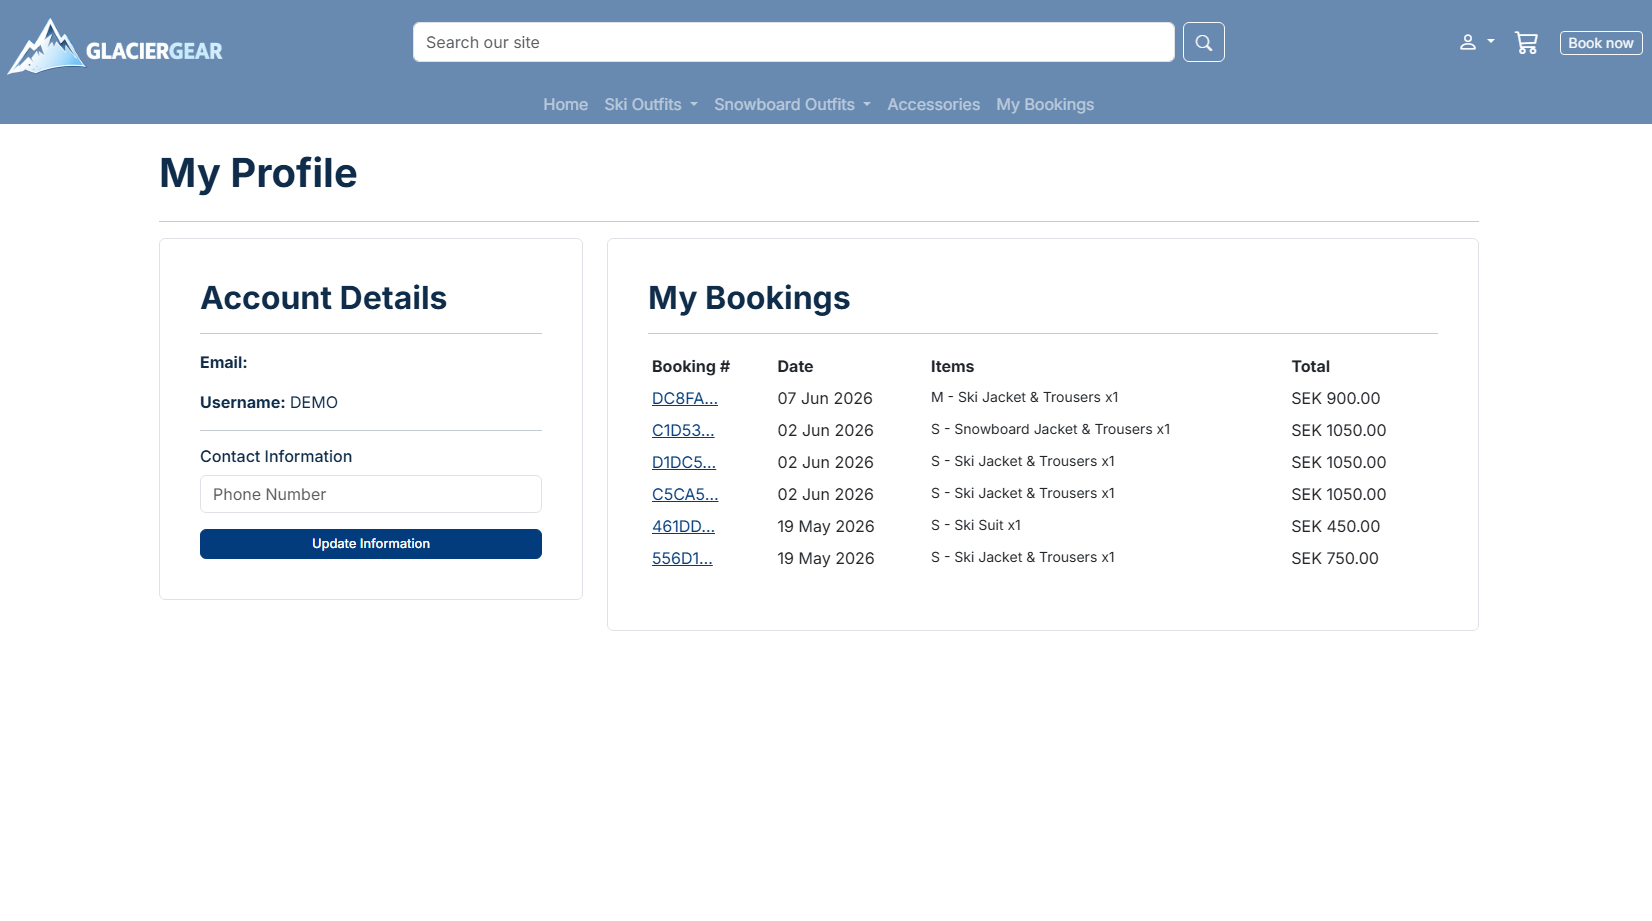
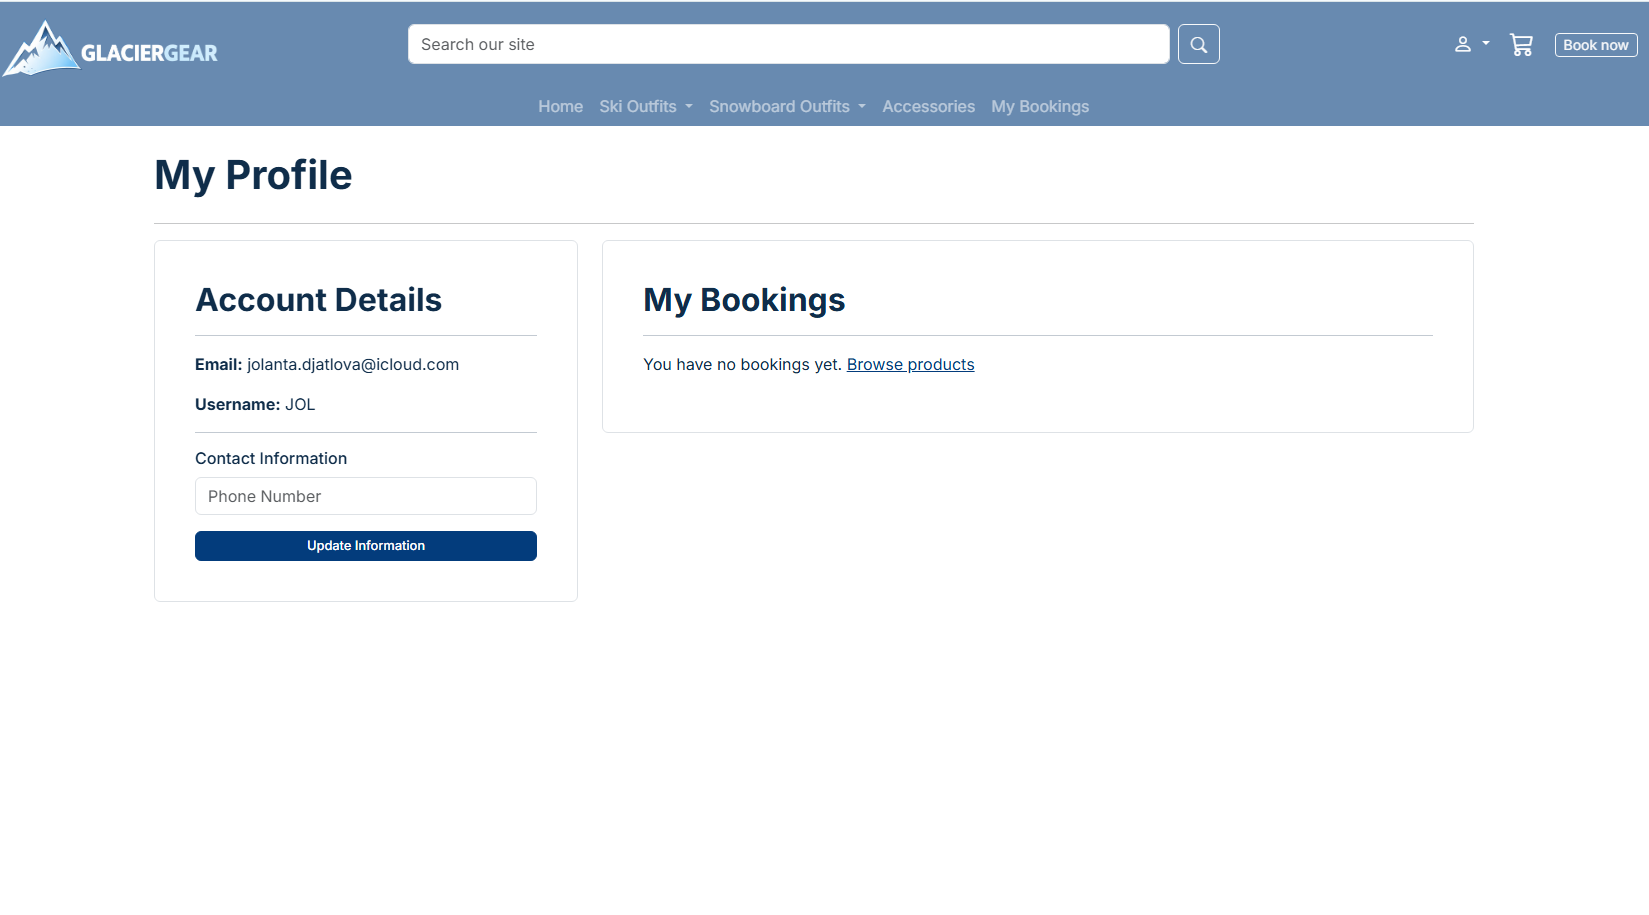
Update README wording, typography, images, credits and agile sections

diff --git a/README.md b/README.md
@@ -116,7 +116,7 @@ The application focuses on clean UX design, accessibility, and secure authentica
 The website follows a clear and intuitive user flow focused on product discovery and rental booking. Public users can browse, search, and filter products, while authenticated users can access the booking cart, checkout, and profile features. Clear UI feedback is provided throughout user interactions via toast notifications.
  
 ##### Information Architecture
-Content is organised into clear sections including the homepage with live weather widget, product listings with filtering and sorting, product detail pages with size and date selection, a booking cart, checkout, and user profile with booking history. Categories are used to group products and support easy navigation.
+Content is organised into clear sections including the homepage with live weather mountain conditions bar, product listings with filtering and sorting, product detail pages with size and date selection, a booking cart, checkout, and user profile with booking history. Categories are used to group products and support easy navigation.
  
 ##### Navigation Layout
 A persistent navigation bar provides access to key areas of the site, including Home, Ski Outfits, Snowboard Outfits, Accessories, My Bookings, and user account options. The navigation collapses into a mobile-friendly menu on smaller screens.
@@ -198,7 +198,7 @@ Some design decisions evolved during development, resulting in minor differences
 ### Typography
  
 - The **Bebas Neue** typeface is used for headings and hero text to create a bold, sporty aesthetic that reflects the ski and snowboard theme of the project.
-- **Open Sans** (via system fonts / Bootstrap defaults) is used for body text and navigation due to its clean, readable letterforms across different screen sizes.
+- **Inter** is used for body text and navigation due to its clean, readable letterforms across different screen sizes.
 - Varying font weights are used to establish clear visual hierarchy between headings, navigation elements, and content text.
 - This typography pairing supports a modern and active interface while keeping the layout clear and easy to navigate.
 
@@ -219,8 +219,8 @@ A contrast grid was used to ensure that text and interactive elements meet acces
  
 ### Images
  
-The hero background image and card images used on the GlacierGear homepage were sourced from free stock photography sites and optimised for web use. Product images were sourced from free stock photography and uploaded through the Django admin panel.
- 
+The hero background image, product images, and GlacierGear logo were all AI-generated using [ChatGPT](https://chat.openai.com/) and optimised for web use. Product images were uploaded through the Django admin panel.
+
 All images include descriptive `alt` attributes to support accessibility.
 
 ### Responsiveness
@@ -232,8 +232,9 @@ The layout, typography, and interactive elements adjust to maintain usability ac
 - Navigation collapses into a mobile-friendly menu on smaller screens.
 - Product cards reflow from a 4-column to 2-column to 1-column grid on smaller screens.
 - Forms, buttons, and inputs remain accessible and easy to use on touch devices.
-Responsiveness was tested using browser developer tools and manual viewport resizing.
-Further details can be found in the **Responsiveness Test** section.
+
+Responsiveness was tested using **Chrome DevTools** device toolbar and manual viewport resizing.
+Further details can be found in the [Responsiveness Test](#responsiveness-test) section.
  
  
 [Back to contents](#contents)
@@ -241,8 +242,8 @@ Further details can be found in the **Responsiveness Test** section.
 ## Agile Development Process
  
 GlacierGear was developed using an iterative Agile approach, focusing on delivering a clear and user-friendly Minimum Viable Product (MVP). Development was carried out in small, manageable stages, allowing functionality to be built, tested, and refined incrementally.
- 
-The workflow was managed using GitHub Projects (Kanban board) and GitHub Issues, where user stories and tasks were prioritised using the MoSCoW method. This ensured that core functionality such as product browsing, the booking cart, Stripe checkout, and user profiles was implemented first, followed by usability and design improvements.
+
+The workflow was managed using [GitHub Projects](https://github.com/jolantadjatlova/GlacierGear/projects) (Kanban board) and GitHub Issues, where user stories and tasks were prioritised using the MoSCoW method. This ensured that core functionality such as product browsing, the booking cart, Stripe checkout, and user profiles was implemented first, followed by usability and design improvements.
  
 [Back to contents](#contents)
  
@@ -252,21 +253,27 @@ The workflow was managed using GitHub Projects (Kanban board) and GitHub Issues,
  
 #### GitHub Projects (Kanban)
 A Kanban board was created using [GitHub Projects](https://github.com/jolantadjatlova/GlacierGear/projects) to visually manage tasks and track progress. Tasks were broken down into user stories and categorised by status:
- 
+
 - To Do
 - In Progress
 - Done
+
+This approach helped to:
+- Track development progress clearly
+- Maintain focus on achievable goals
+- Manage workload effectively throughout the project
+
 ![GitHub Projects Board](docs/glaciergear_project_board.png)
- 
+
 #### GitHub Issues
- 
-GitHub Issues were used to record user stories, development tasks and potential features, with labels applied.
- 
+
+GitHub Issues were used to record user stories, development tasks and potential features, with labels applied. Each issue included clear acceptance criteria and was linked to the relevant stage of development.
+
 ![GitHub Issues](docs/glaciergear_github_issues.png)
- 
+
 #### MoSCoW Prioritization
- 
-The MoSCoW prioritisation method was used to classify tasks as Must Have, Should Have or Could Have. This helped ensure that essential functionality was delivered within the project timeframe.
+
+The MoSCoW prioritisation method was used to classify tasks as Must Have, Should Have or Could Have. This helped ensure that essential functionality was delivered within the project timeframe while allowing flexibility for future enhancements. Could-have issues such as Wishlist and Product Reviews remain open to demonstrate ongoing prioritisation.
  
  
 [Back to contents](#contents)
@@ -339,6 +346,7 @@ Users can browse all available rental products with filtering and sorting option
 Features include:
 - Filter by gender, garment type, size, and colour
 - Sort by price, name, and rating
+- Search by keyword using the navbar search bar
 - Product count displayed
 - Edit/Delete links visible to superusers on each card
 
@@ -399,11 +407,11 @@ Features include:
 Users complete their booking through a secure checkout with Stripe payment processing.
 
 Features include:
+- Order summary showing items, sizes, dates and total
 - Booking details form (name, email, phone, rental dates)
 - Pre-filled with saved profile information
 - Save info checkbox to update profile on checkout
 - Stripe card payment element
-- Loading overlay during payment processing
 
 [Checkout page](docs/checkout_desktop.png "Checkout page")
 
@@ -729,11 +737,10 @@ All tests were run using:
 | Stripe webhook creating duplicate orders | Fixed | Orders were being created twice when both the view and webhook ran. | Added `original_bag` and `stripe_pid` fields to `Booking` and matched on these in the webhook handler. |
 | Stock not decrementing on webhook-created orders | Fixed | If the checkout view failed and the webhook created the order, stock was not decremented. | Added `_decrement_stock()` method to the webhook handler called only when it creates the order. |
 | Static files not loading on Heroku | Fixed | After removing `DISABLE_COLLECTSTATIC`, the build failed due to missing `STATIC_ROOT`. | Added `STATIC_ROOT` to both the `USE_AWS` and non-AWS settings blocks. |
-| Allauth pages not styled | Fixed | Logout, password reset, and other allauth pages used default unstyled templates. | Created custom styled templates for all allauth account pages extending `base.html`. |
-| Weather widget showing hardcoded values | Fixed | The homepage weather pill displayed `-2°C Partly Cloudy` regardless of the API. | Updated `index.html` to use `{{ weather.temperature }}` and `{{ weather.description }}` from context. |
 | Hero background image not covering cards on mobile | Fixed | The background image was set on `body`, staying fixed to the viewport. On mobile, stacked cards pushed below the visible image area. | Moved the background image from `body` to `.hero` so it scales naturally with the hero section as cards stack vertically. |
 | Confirmation email not sending after checkout | Fixed | The `checkout_success` view wasn't calling `send_mail` after a successful booking, so no confirmation email was sent to the user. | Added `send_mail` call directly to the `checkout_success` view using the existing email templates. |
 | Stripe webhook returning 500 error | Fixed | `stripe.Charge.retrieve` was incompatible with the newer Stripe API version, causing the webhook handler to crash on every payment. | Updated webhook handler to use `intent.charges.data[0].billing_details` and `intent.amount_received` instead. |
+| 500 error on registration | Fixed | Missing `EMAIL_HOST_USER` and `EMAIL_HOST_PASSWORD` config vars on Heroku caused a 500 error when users tried to register. | Added the email config vars to Heroku Config Vars. |
  
 [Back to contents](#contents)
  
@@ -831,7 +838,6 @@ I have used the recommended [CI Python Linter](https://pep8ci.herokuapp.com) to 
 | products | apps.py | [PEP8 CI Link](https://pep8ci.herokuapp.com/https://raw.githubusercontent.com/jolantadjatlova/GlacierGear/refs/heads/main/products/apps.py) | ![screenshot](docs/py-products-apps.png) |
 | products | forms.py | [PEP8 CI Link](https://pep8ci.herokuapp.com/https://raw.githubusercontent.com/jolantadjatlova/GlacierGear/refs/heads/main/products/forms.py) | ![screenshot](docs/py-products-forms.png) |
 | products | models.py | [PEP8 CI Link](https://pep8ci.herokuapp.com/https://raw.githubusercontent.com/jolantadjatlova/GlacierGear/refs/heads/main/products/models.py) | ![screenshot](docs/py-products-models.png) |
-| products | signals.py | [PEP8 CI Link](https://pep8ci.herokuapp.com/https://raw.githubusercontent.com/jolantadjatlova/GlacierGear/refs/heads/main/products/signals.py) | ![screenshot](docs/py-products-signals.png) |
 | products | tests.py | [PEP8 CI Link](https://pep8ci.herokuapp.com/https://raw.githubusercontent.com/jolantadjatlova/GlacierGear/refs/heads/main/products/tests.py) | ![screenshot](docs/py-products-tests.png) |
 | products | urls.py | [PEP8 CI Link](https://pep8ci.herokuapp.com/https://raw.githubusercontent.com/jolantadjatlova/GlacierGear/refs/heads/main/products/urls.py) | ![screenshot](docs/py-products-urls.png) |
 | products | views.py | [PEP8 CI Link](https://pep8ci.herokuapp.com/https://raw.githubusercontent.com/jolantadjatlova/GlacierGear/refs/heads/main/products/views.py) | ![screenshot](docs/py-products-views.png) |
@@ -1090,8 +1096,8 @@ os.environ.setdefault("STRIPE_WH_SECRET", "your-stripe-wh-secret")
 ## Credits
  
 ### Feedback, Advice and Support
- 
-- Code Institute tutors — for guidance and feedback throughout the project
+
+- A special thank you to [Richey Malhotra](https://github.com/richey-malhotra) for the support and guidance provided throughout this project. His help during the more challenging parts of development made a real difference and is greatly appreciated.
 - Peer support and discussion within the Code Institute Slack community
 [Back to contents](#contents)
  
@@ -1115,9 +1121,8 @@ os.environ.setdefault("STRIPE_WH_SECRET", "your-stripe-wh-secret")
  
 ### Images
  
-- Hero background image sourced from free stock photography.
-- Product images sourced from free stock photography sites and uploaded via Django admin.
-- GlacierGear logo created for this project.
+- The hero background image, product images, and GlacierGear logo were all AI-generated using [ChatGPT](https://chat.openai.com/) and optimised for web use.
+- Product images were uploaded through the Django admin panel.
 - All images include descriptive `alt` attributes to support accessibility.
 [Back to contents](#contents)
  
